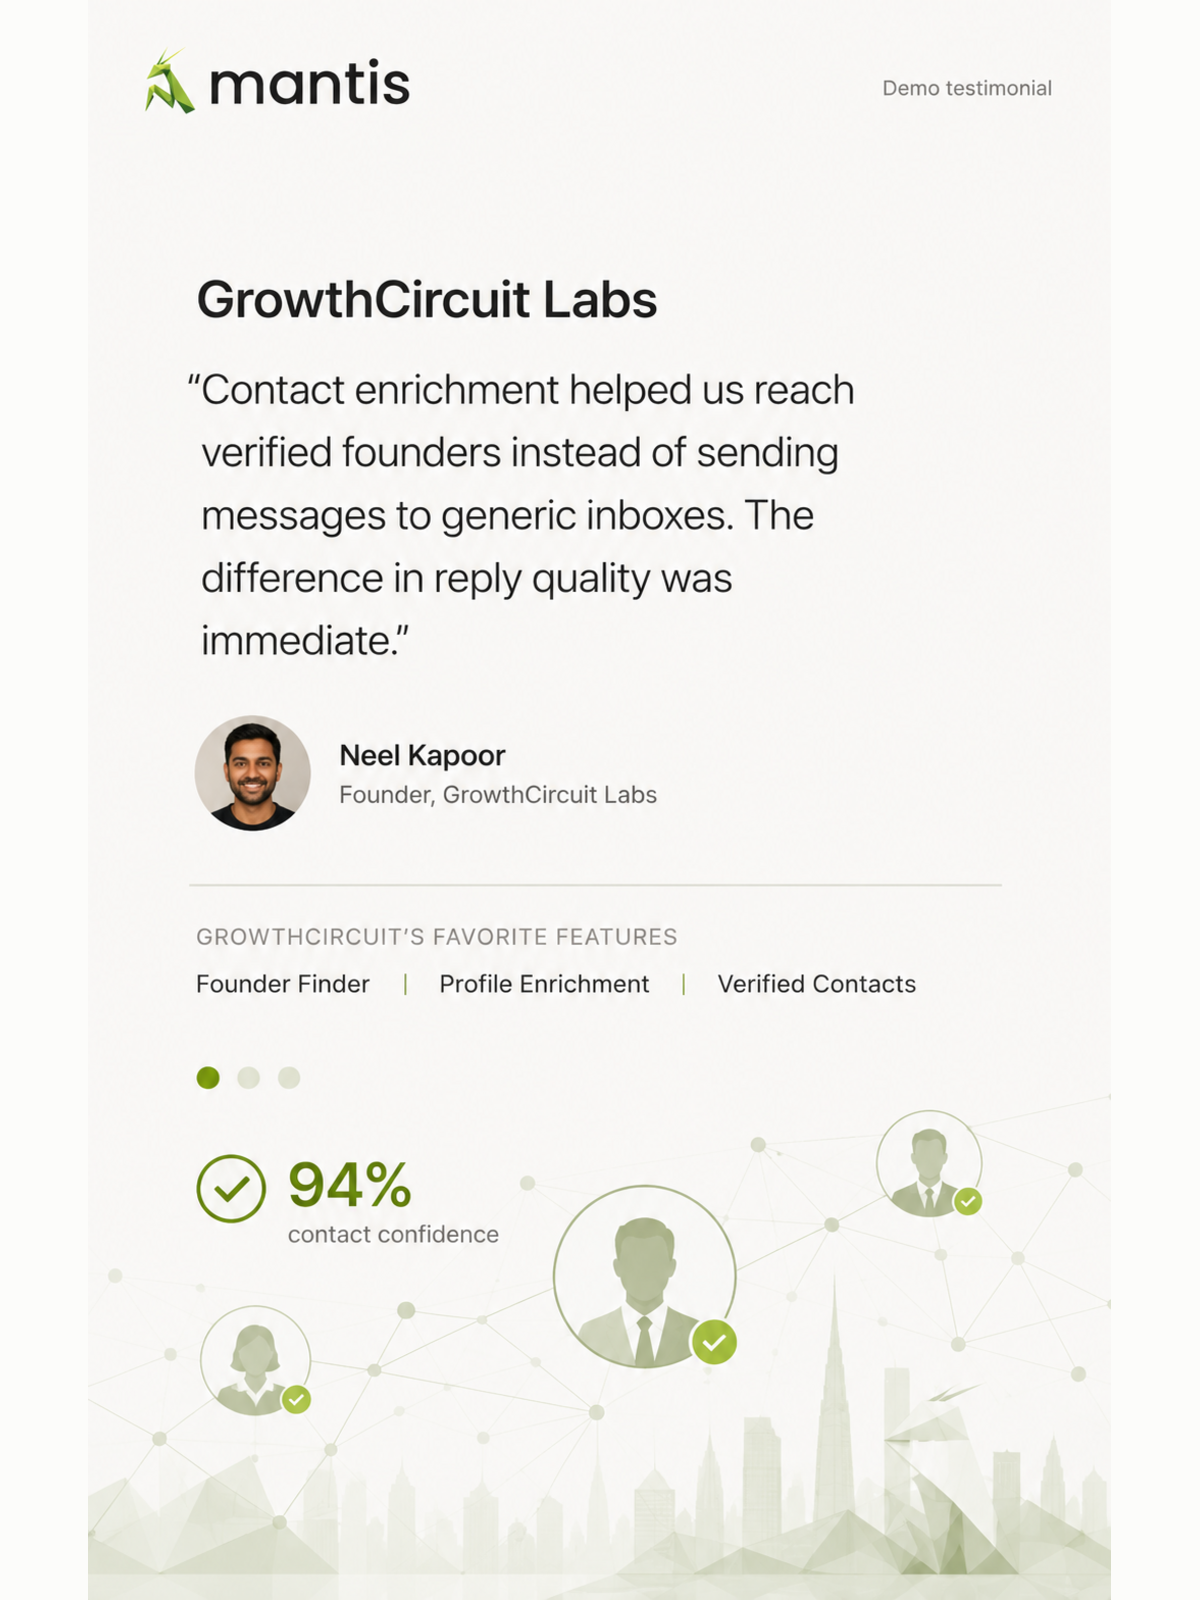
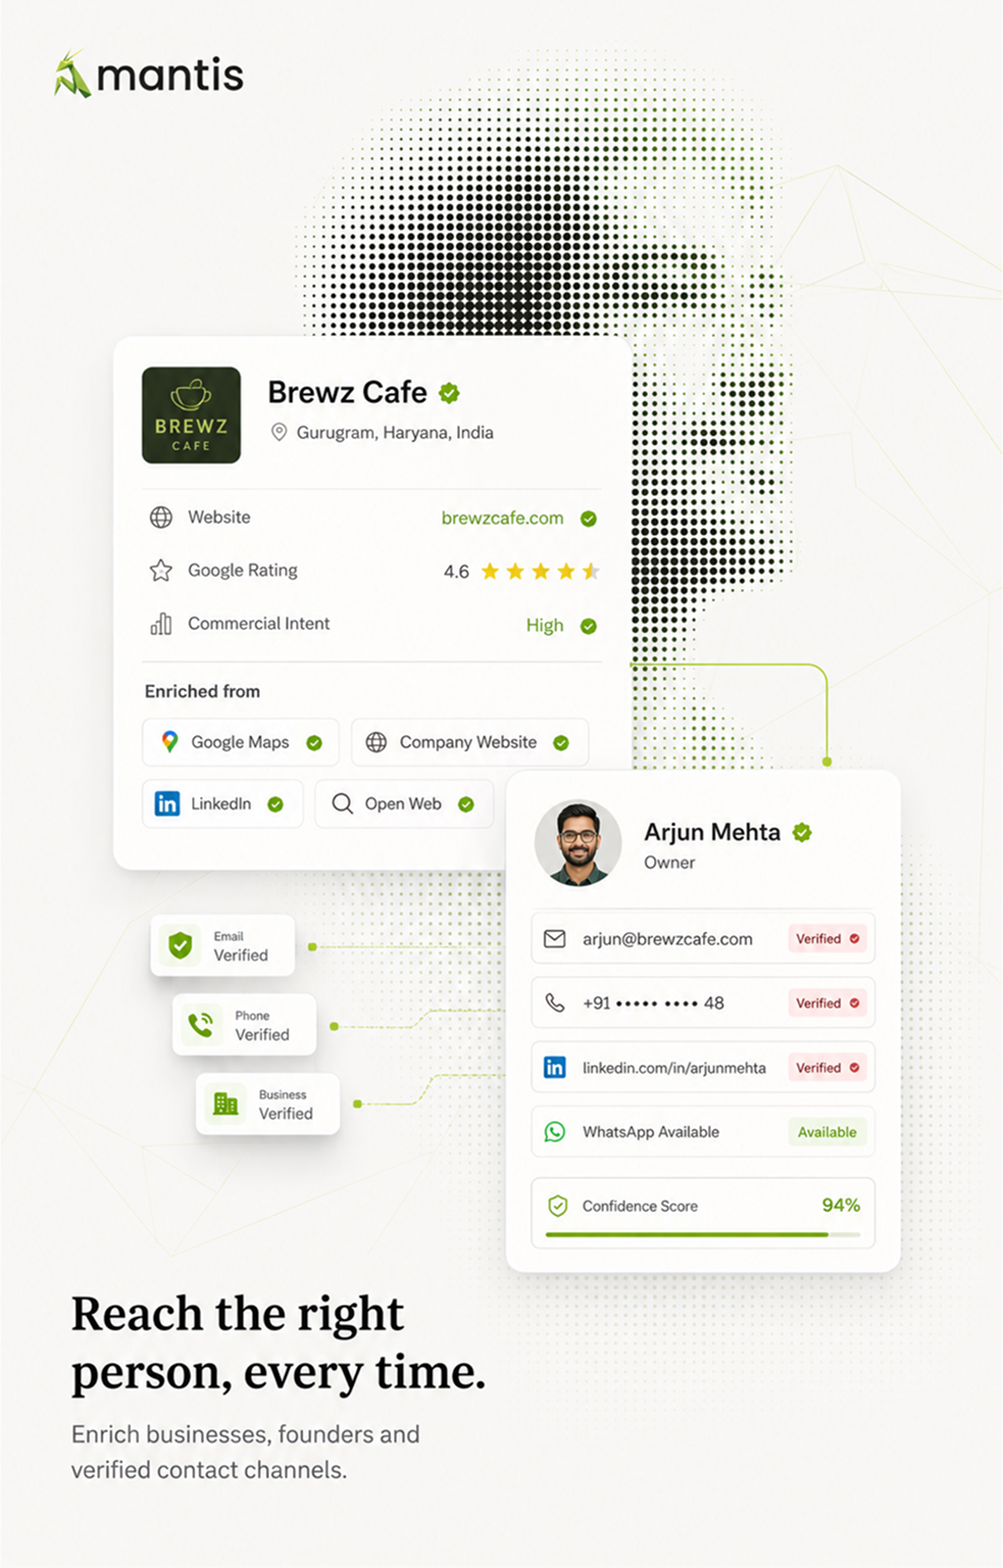
Swap in confirmed final carousel images, card to 1.3x, revert background

diff --git a/app/(auth)/login/page.tsx b/app/(auth)/login/page.tsx
@@ -97,22 +97,21 @@ export default function LoginPage() {
         display: "flex",
         alignItems: "center",
         justifyContent: "center",
-        // Slightly darker than the card itself (both used to be --g-cream, so the card had no
-        // visible edge against the page) — this gives the card a real boundary to sit inside.
-        background: "var(--g-gray-300)",
+        background: "var(--g-cream)",
         padding: 24,
       }}
     >
       <div
         style={{
           width: "100%",
-          maxWidth: 1350,
+          // 1.3x the original 900x620.
+          maxWidth: 1170,
           // A definite `height` (not minHeight) matters here — the left column's only child is
           // position:absolute (see AuthCarousel), which contributes nothing to a grid row's
           // auto-sizing, so minHeight alone left the row (and the image filling it) sized to
           // whatever the right panel's own content needed, showing empty background around/
           // below the image. A definite height lets both columns actually stretch to fill it.
-          height: 930,
+          height: 806,
           background: "var(--g-cream)",
           borderRadius: 28,
           boxShadow: "0 24px 64px rgba(20, 32, 51, 0.22)",

diff --git a/components/auth/Carousel.tsx b/components/auth/Carousel.tsx
@@ -4,14 +4,12 @@ import { useEffect, useState } from "react";
 import Image from "next/image";
 
 // Each slide is a full, self-contained marketing image (already has its own headline/copy/
-// branding baked in). Only 3 of the intended 4 are in place — the 4th ("Reach the right
-// person" / Brewz Cafe) only existed as a landscape hero crop (1536x1024), which would look
-// letterboxed next to these portrait ones, so it's left out until a matching portrait crop is
-// available. Add "/auth/carousel-4.png" back here once it exists.
+// branding baked in) — all 4, matching portrait dimensions (1003x1568).
 const SLIDES = [
   "/auth/carousel-1.png",
   "/auth/carousel-2.png",
   "/auth/carousel-3.png",
+  "/auth/carousel-4.png",
 ];
 
 const AUTOPLAY_MS = 7500; // 1.5x the original 5s
